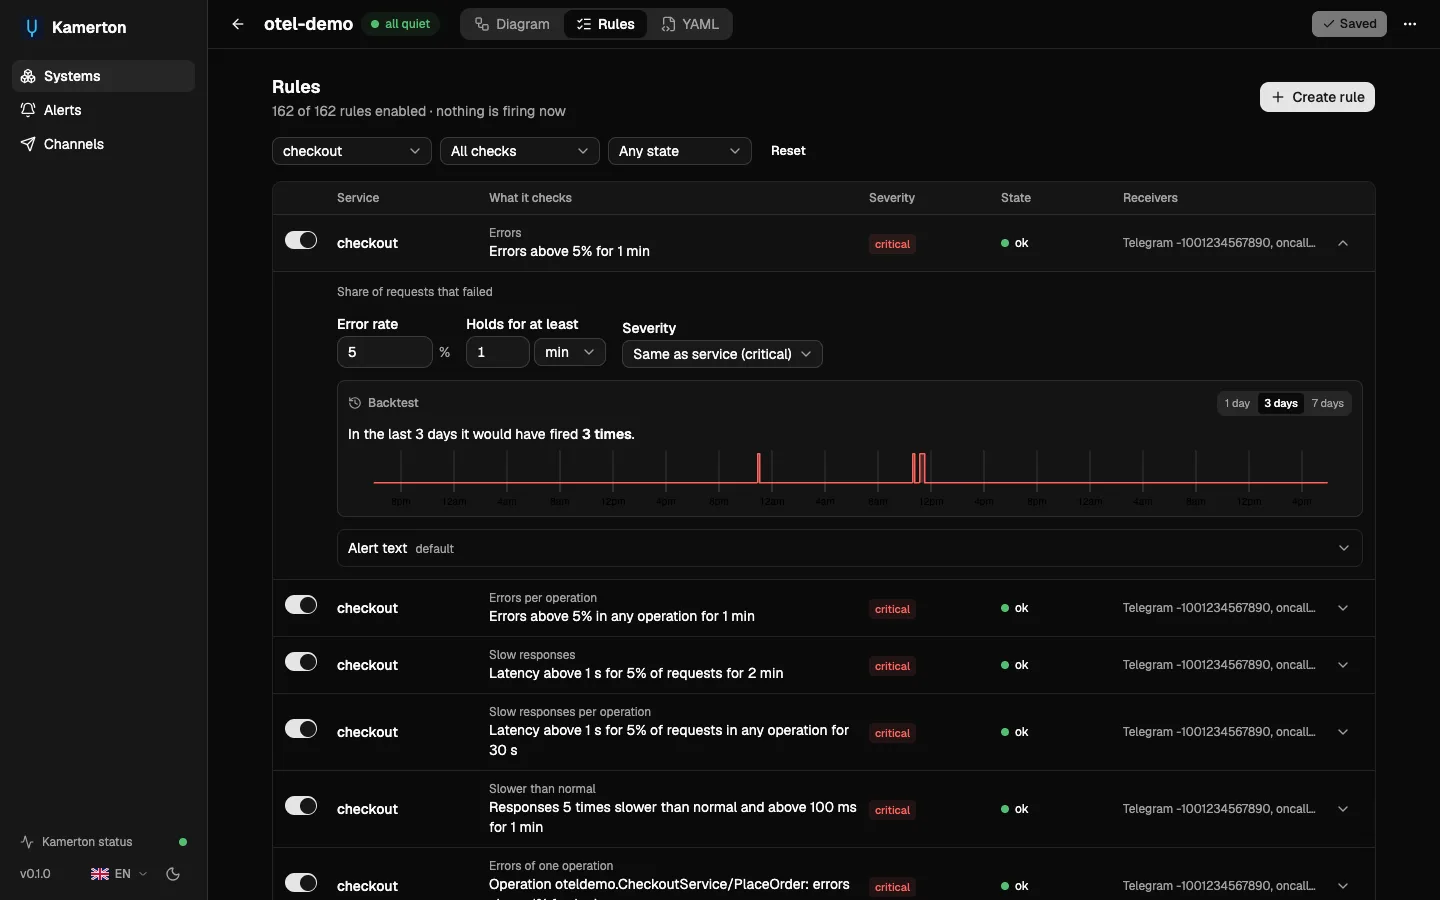
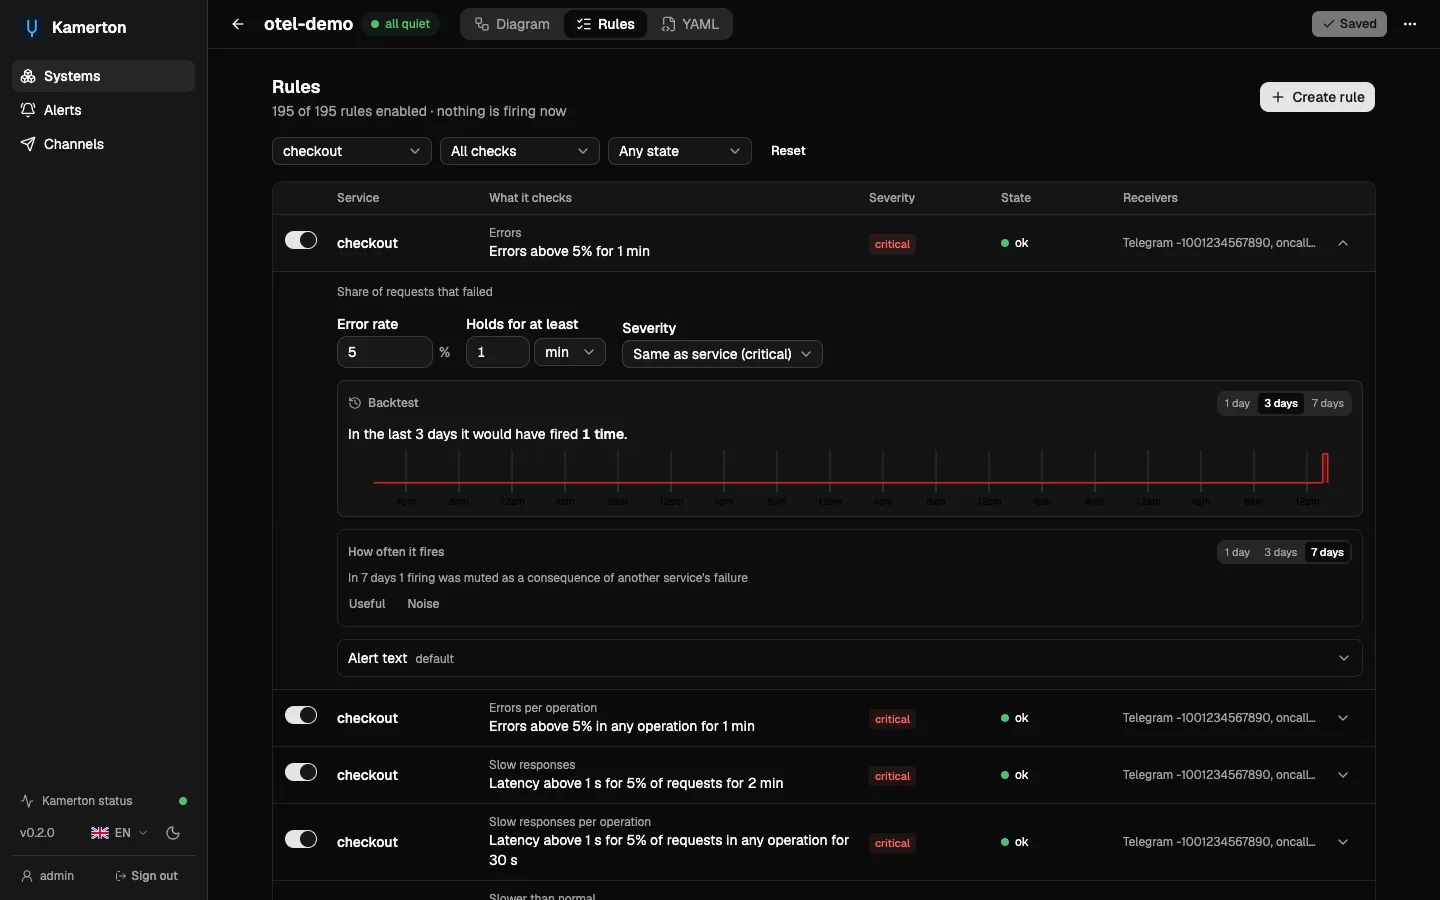
Linux server guide and 0.2.0 screenshots

diff --git a/docs/docs/linux.md b/docs/docs/linux.md
@@ -1,0 +1,112 @@
+# On a Linux server
+
+A short path from a plain Linux server to a running Kamerton. Kamerton itself runs in Kubernetes, so the first step is a small single-node cluster on the server.
+
+This is what we ran: Kamerton 0.2.0 with the demo shop on one Ubuntu 24.04 server that was already busy with nginx and Docker workloads.
+
+## What it takes
+
+Measured on that run:
+
+| | Memory | Notes |
+| --- | --- | --- |
+| Kamerton with Prometheus, Alertmanager, Grafana, Loki, Tempo and the Collector | about 1.3 GB | right after installation, almost no data yet |
+| The demo shop | about 3 GB | optional |
+| The cluster itself with everything in it | about 8 GB | as Docker reported for the node container |
+
+Disk: about 16 GB of container images with the shop, plus 10 GB claimed for Loki. Prometheus grows with what you keep.
+
+Installation took under a minute from `helm install` to all pods running, on a fast connection.
+
+## 1. A cluster
+
+Pick one.
+
+### The server already runs other things
+
+Use k3s inside a Docker container with [k3d](https://k3d.io). It takes no ports on the host, leaves the firewall and your web server alone, and goes away with one command. This is the way we tested.
+
+You need Docker, [k3d](https://k3d.io/stable/#installation), [kubectl](https://kubernetes.io/docs/tasks/tools/install-kubectl-linux/) and [Helm](https://helm.sh/docs/intro/install/).
+
+```sh
+k3d cluster create kamerton \
+  --api-port 127.0.0.1:6550 --no-lb \
+  --servers-memory 14g \
+  --k3s-arg "--disable=traefik@server:0" \
+  --k3s-arg "--disable=servicelb@server:0"
+kubectl get nodes
+```
+
+`--servers-memory` caps what the whole cluster may use, so a runaway pod cannot starve the rest of the server. The Kubernetes API listens on localhost only.
+
+### A clean server
+
+Install [k3s](https://docs.k3s.io/quick-start) straight on the host. Our own test stand is a single-node k3s, though in a virtual machine; we did not repeat this variant on a bare server for this page.
+
+```sh
+curl -sfL https://get.k3s.io | sh -s - --disable traefik
+export KUBECONFIG=/etc/rancher/k3s/k3s.yaml
+kubectl get nodes
+```
+
+Two things to check first:
+
+- k3s ships an ingress that takes ports 80 and 443. `--disable traefik` leaves them free; drop the flag if you want that ingress.
+- With a host firewall such as ufw, pods cannot reach the Kubernetes API until the pod and service networks are allowed. See [k3s requirements](https://docs.k3s.io/installation/requirements#operating-systems).
+
+## 2. Install Kamerton
+
+The same as in the [Quick start](./quick-start):
+
+```sh
+git clone https://github.com/kamerton-labs/kamerton.git
+cd kamerton
+helm install kamerton ./deploy/helm/kamerton \
+  --namespace kamerton --create-namespace --dependency-update \
+  --set externalURL=http://localhost:8080
+kubectl -n kamerton get pods
+```
+
+## 3. Set a login
+
+Do this before you open the UI to anyone:
+
+```sh
+kubectl -n kamerton create secret generic kamerton-auth \
+  --from-literal=username=admin --from-literal=password='<strong password>'
+helm upgrade kamerton ./deploy/helm/kamerton -n kamerton --reuse-values \
+  --set auth.existingSecret=kamerton-auth
+```
+
+## 4. Open the UI from your own computer
+
+Keep the UI on the server's localhost and reach it through SSH. Nothing is opened to the internet.
+
+On the server:
+
+```sh
+kubectl -n kamerton port-forward --address 127.0.0.1 svc/kamerton 8080
+```
+
+On your computer:
+
+```sh
+ssh -N -L 8080:127.0.0.1:8080 user@your-server
+```
+
+Then open `http://localhost:8080`. For a permanent address put your web server or an ingress in front, with TLS, and set `externalURL` to that address so links in notifications open.
+
+## 5. Describe a system and connect channels
+
+Continue with the [Quick start](./quick-start#_5-describe-a-system) from step 5, or install the [demo shop](./demo) to see alerts within minutes.
+
+::: warning Connect the channels a description names
+A description that names a Telegram or email receiver refers to the Secrets `kamerton-telegram` and `kamerton-smtp`. Until they exist, the Prometheus Operator rejects the whole Alertmanager configuration of that system: nothing is sent, and alerts are not grouped by cause. Enter the bot token and the mail server under "Channels", or remove the receivers you do not use. This is a known problem of 0.2.0.
+:::
+
+## Remove everything
+
+```sh
+k3d cluster delete kamerton          # the Docker variant
+/usr/local/bin/k3s-uninstall.sh      # the host variant
+```

diff --git a/docs/docs/limitations.md b/docs/docs/limitations.md
@@ -29,7 +29,19 @@ A single-node k3s cluster with the OpenTelemetry Demo:
 - sets of programs work, including finding installed programs and a second Prometheus;
 - eBPF auto-instrumentation records the demo's services when it runs privileged.
 
-New in 0.2.0 and not on this list yet: grouping by cause, the follow-up, the incident history, the "Useful" and "Noise" buttons, the noise statistics. They have had little time on a real cluster.
+A clean installation of 0.2.0 on an Ubuntu 24.04 server, k3s inside Docker, following [On a Linux server](./linux):
+
+- the chart installs from the published image, all pods run within a minute;
+- the demo description produces its 195 rules;
+- with payment scaled to zero the alert about the cause arrives, the alerts of its callers are muted, the evidence names the scaling, and the incident lands in the history.
+
+Grouping by cause, the follow-up, the incident history, the "Useful" and "Noise" buttons and the noise statistics are new in 0.2.0. Each was tried on these two clusters and nowhere else yet.
+
+Found on that installation and not fixed in 0.2.0:
+
+- a description that names a Telegram or email receiver before its Secret exists gets its whole Alertmanager configuration rejected by the Prometheus Operator: nothing is sent and nothing is muted until the channel is connected or the receiver removed;
+- right after the demo shop starts, a few error alerts fire for about three minutes while its services come up;
+- on a workload younger than the incident, the evidence lists its first rollout as "new version".
 
 ## Not done yet, and known limits
 

diff --git a/docs/docs/incidents.md b/docs/docs/incidents.md
@@ -8,6 +8,8 @@ When `payment` goes down, `checkout` starts failing, then `frontend`, then every
 
 All three are new in 0.2.0 and on by default. They are covered by unit tests but have had little time on a real cluster. See [Limitations and status](./limitations).
 
+<Shot name="incident" alt="Alerts screen with one incident: no ready pods for payment, what changed, and three muted alerts of checkout and frontend" caption="A test on a fresh installation: payment was scaled to zero. One alert about the cause, three alerts of its callers muted." />
+
 ## Muting by cause
 
 The AlertmanagerConfig that Kamerton generates for a system carries inhibit rules built from `dependsOn`:
@@ -115,6 +117,8 @@ If nothing useful is found yet, Kamerton tries again about 1 and 3 minutes later
 ## Incident history
 
 Kamerton keeps a record of every incident: the system, the root services and their alerts, the affected services, start, end, duration and the evidence of the follow-up. An incident still going on is listed as open. The UI shows the history on the Alerts screen, in the "History" view.
+
+<Shot name="history" alt="History view: the payment incident with its duration, the evidence and a note with the cause and what helped" />
 
 ### Notes: cause and what helped
 

diff --git a/docs/docs/ui-tour.md b/docs/docs/ui-tour.md
@@ -31,7 +31,7 @@ A noisy rule has a "noisy" mark in the table, and the "Noisy" filter shows only 
 
 "Create rule" adds a rule from the library or a custom one.
 
-<Shot name="rule-card" alt="Rule list filtered to the checkout service, with the error-rate rule card open: error share, pending period and severity fields" />
+<Shot name="rule-card" alt="Rule list filtered to the checkout service, with the error-rate rule card open: thresholds, backtest and how often the rule fired" />
 
 ## YAML
 
@@ -55,7 +55,7 @@ What is firing now across all systems, grouped into incidents. An incident names
 
 The "History" view lists past incidents, newest first, with their duration. Each one can get a note: the cause and what helped. Notes written in reply to the "incident over" message in Telegram show up here too. See [Incidents](./incidents).
 
-Without a connected Alertmanager this screen is empty, so there is no screenshot here.
+<Shot name="incident" alt="Alerts screen with one incident: no ready pods for payment and three muted alerts of the services that call it" />
 
 ## Runbooks
 

diff --git a/docs/docs/demo.md b/docs/docs/demo.md
@@ -43,6 +43,10 @@ kubectl -n kamerton port-forward svc/kamerton 8080
 
 The UI is at `http://localhost:8080`. Set up Telegram or email under "Channels" - see [Notifications](./notifications) - or replace the placeholder chat ID and addresses in `system.yaml` with your own.
 
+::: warning Do this before step 4
+The shop's description names a Telegram and an email receiver. Until the Secrets `kamerton-telegram` and `kamerton-smtp` exist, the Prometheus Operator rejects the whole Alertmanager configuration of the system: nothing is sent and alerts are not grouped by cause. Connect both channels under "Channels", or delete the receivers you do not use from the description. A known problem of 0.2.0.
+:::
+
 ## 4. Break something
 
 The shop has fault flags. Open its flag page:
